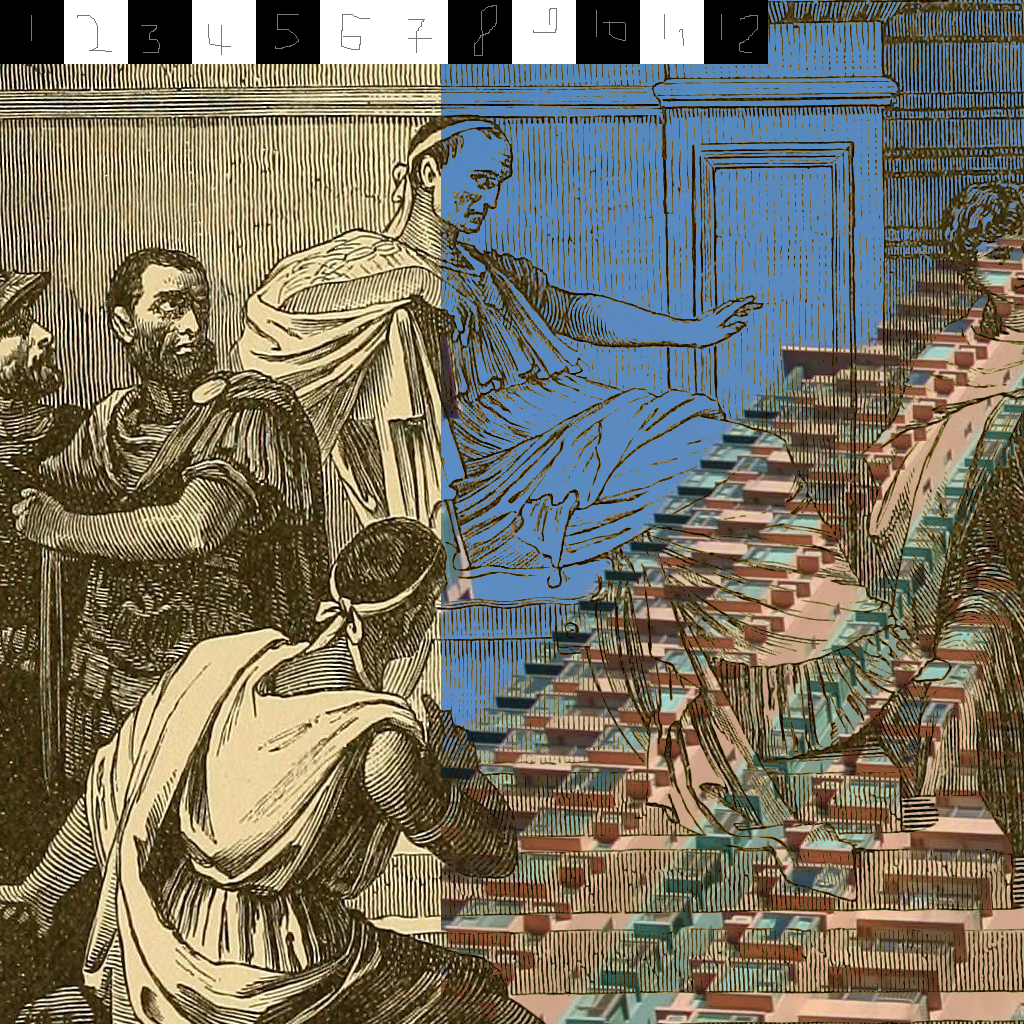
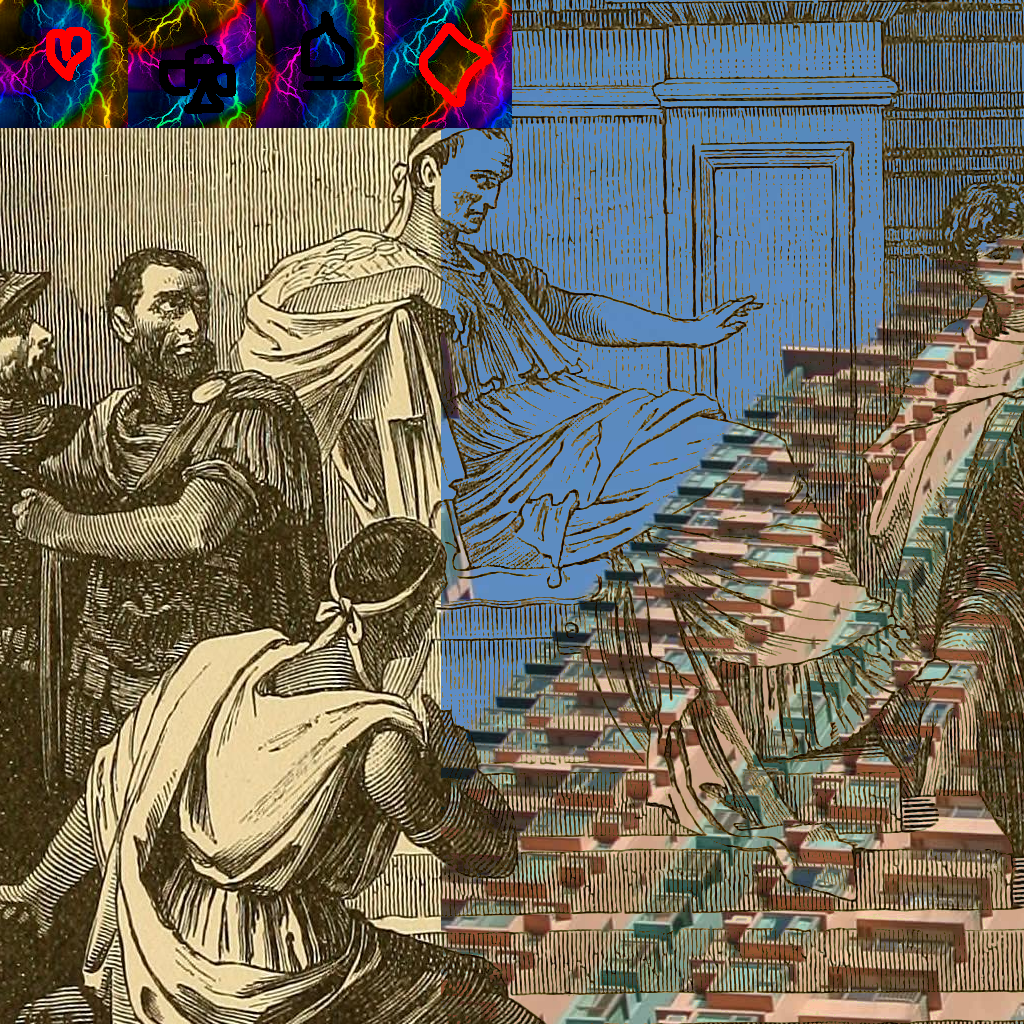
Proper King Heritage, Del Animation

Changed region(s): [[0.0, 0.0, 0.75, 0.125]]

diff --git a/Piece.cpp b/Piece.cpp
@@ -44,7 +44,9 @@ void Piece::consumeMoveset(Moveset moves, bool XORMode) {
 
 void Piece::consumeBasepiece(Basepiece bp) {
   animal = combine_basepieces(basepiece, bp);
-  basepiece = bp;
+  if (basepiece != Basepiece::KING) {
+    basepiece = bp;
+  }
 }
 
 
@@ -108,11 +110,10 @@ void Piece::onEvent(sf::Event event, Board &board) {
   if ( beingMoved
     && event.type == (dragndrop ? sf::Event::MouseButtonReleased : sf::Event::MouseButtonPressed)
     && event.mouseButton.button == sf::Mouse::Button::Left) {
-    dropPiece(board, sf::Vector2f((float)event.mouseButton.x, (float)event.mouseButton.y));
-    calculateTexCoord(0);
-    rect.setColor(sf::Color::White);
-    board.resetColor();
     beingMoved=false;
+    calculateTexCoord(0);
+    dropPiece(board, sf::Vector2f((float)event.mouseButton.x, (float)event.mouseButton.y));
+    board.resetColor();
   }
   if ((!beingMoved)
     && event.type == sf::Event::MouseButtonPressed
@@ -120,7 +121,7 @@ void Piece::onEvent(sf::Event event, Board &board) {
     && collider.contains( sf::Vector2f((float)event.mouseButton.x, (float)event.mouseButton.y)) ) {
     // Pick piece up
     beingMoved=true;
-    rect.setColor(sf::Color::Green);
+    calculateTexCoord(0);
     origin=position;
     board.colorWith(this);
   }
@@ -148,16 +149,14 @@ void Piece::render(sf::RenderWindow& window, int time) {
     position=(sf::Vector2f)sf::Mouse::getPosition(window);
     distributePosition();
   }
-  if (beingMoved) {
-    calculateTexCoord(time);
-  }
   window.draw(rect);
+  //TODO: Post Nov: Animate again
 }
 
 void Piece::calculateTexCoord(int time){
   int a = animal;
   a = a * 2 + (facing_front ? 0 : 1);
-  a = a * ANIM_FRAMECOUNT + ((time / ANIM_FRAMETIME) % ANIM_FRAMECOUNT);
+  a = a * 2 + (beingMoved ? 0 : 1);
   rect.setTextureRect(sf::IntRect(
     SPRITE_SIZE * (a % atlas_width),
     SPRITE_SIZE * (a / atlas_width),

diff --git a/art_src/atlas.cpp b/art_src/atlas.cpp
@@ -35,9 +35,9 @@ int main( int /*argc*/, char ** argv)
           std::string animal_filename = basepiece_to_string((Basepiece)l)+basepiece_to_string((Basepiece)s)+".png";
           cout<<"Reading animal #"<<animal<<" from \""<<animal_filename<<"\".. ";
           in.read(animal_filename);
-          int off = animal * ANIM_FRAMECOUNT * 2;
+          int off = animal * SPRITES_PER_ANIMAL;
           for(int face=0;face<2;face++){
-            for(int frame=0;frame<ANIM_FRAMECOUNT;frame++){
+            for(int frame=0;frame<2;frame++){
               Image sprite = in;
               sprite.crop( Geometry( SPRITE_SIZE, SPRITE_SIZE, SPRITE_SIZE*face, SPRITE_SIZE*frame ) );
               atlas.composite( sprite, (SPRITE_SIZE * off) % ATLAS_SIZE, (SPRITE_SIZE * off) / ATLAS_SIZE, OverCompositeOp );
@@ -51,7 +51,6 @@ int main( int /*argc*/, char ** argv)
         animal++;
       }
     }
-    atlas.display();
     atlas.write("../assets/atlas.png");
   }catch(Exception &error){
     cerr << "Caught fatal exception: " << error.what() << endl;

diff --git a/Basepiece.hpp b/Basepiece.hpp
@@ -3,12 +3,12 @@
 #include <iostream>
 
 enum Basepiece{
-  PAWN,
-  ROOK,
-  BISHOP,
-  KNIGHT,
-  QUEEN,
-  KING,
+  PAWN, // Penguin
+  ROOK,  // Bear
+  BISHOP, // Raccoon
+  KNIGHT, // Fish
+  QUEEN, // Cat
+  KING, // Lion
   LEN
 };
 

diff --git a/config.hpp b/config.hpp
@@ -1,4 +1,3 @@
 #define ATLAS_SIZE 1024
-#define SPRITE_SIZE 64
-#define ANIM_FRAMECOUNT 6
-#define ANIM_FRAMETIME 500
+#define SPRITE_SIZE 128
+#define SPRITES_PER_ANIMAL 4
